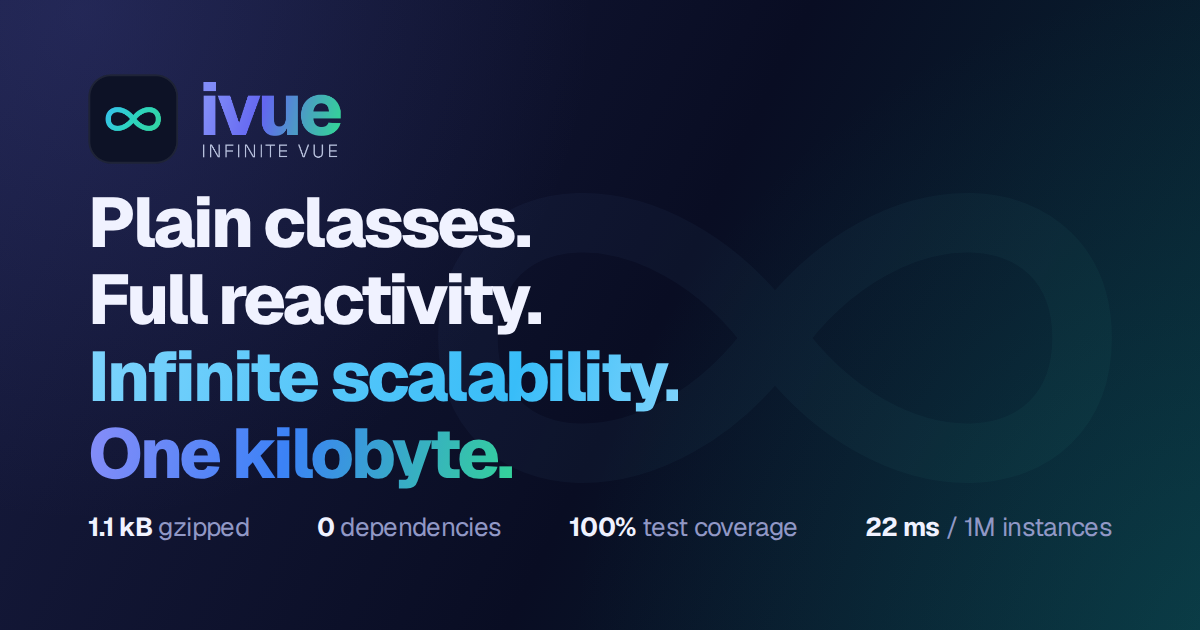
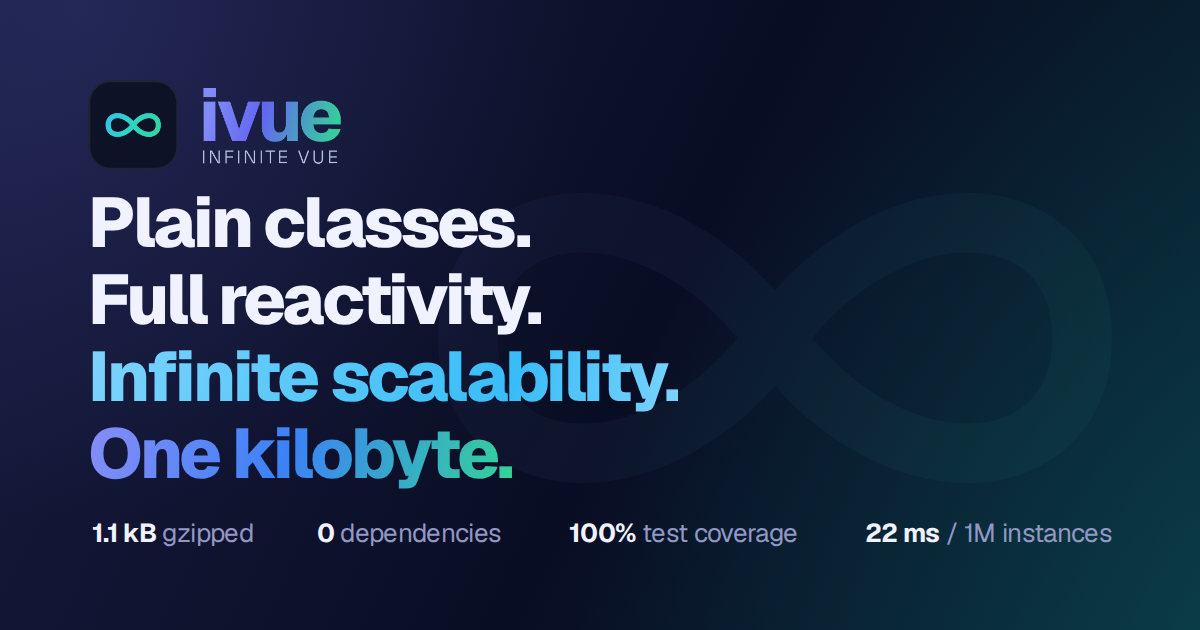
docs: improve examples onboarding and deployment warmup

diff --git a/docs_v2/scripts/og-image.html b/docs_v2/scripts/og-image.html
@@ -65,7 +65,7 @@
       .lockup {
         position: absolute;
         z-index: 1;
-        top: 68px;
+        top: 74px;
         /* Compensate for the PNG's transparent inset so its visible edge
            aligns with the headline's 88px guide. */
         left: 81.6px;
@@ -117,7 +117,7 @@
         position: absolute;
         z-index: 1;
         right: 88px;
-        bottom: 90px;
+        bottom: 84px;
         left: 88px;
         display: flex;
         align-items: baseline;
@@ -133,6 +133,10 @@
       .metrics strong {
         color: #f0f2ff;
         font-weight: 700;
+      }
+
+      .metric-size {
+        transform: translateX(4px);
       }
     </style>
   </head>
@@ -174,7 +178,7 @@
       </h1>
 
       <div class="metrics">
-        <span><strong>1.1 kB</strong> gzipped</span>
+        <span class="metric-size"><strong>1.1 kB</strong> gzipped</span>
         <span><strong>0</strong> dependencies</span>
         <span><strong>100%</strong> test coverage</span>
         <span><strong>22 ms</strong> / 1M instances</span>

diff --git a/docs_v2/.vitepress/config.ts b/docs_v2/.vitepress/config.ts
@@ -403,7 +403,7 @@ export default defineConfig({
     sidebar: {
       '/examples/': [
         {
-          text: 'Playground',
+          text: 'Examples',
           collapsed: false,
           items: [
             { text: 'Overview & Playground', link: '/examples/' },

diff --git a/docs_v2/examples/index.md b/docs_v2/examples/index.md
@@ -17,6 +17,22 @@ push redeploys everything.
 Or use the [embedded StackBlitz Playground](/examples/stackblitz) without
 leaving the docs.
 
+## Run the playground locally
+
+The same app is in the repository, with every example in one navigable
+workspace:
+
+```bash
+git clone https://github.com/infinite-system/ivue.git
+cd ivue
+yarn install
+yarn dev:playground
+```
+
+Open the Vite URL printed in the terminal (usually `http://localhost:5173`),
+then use the app's sidebar to switch between examples. Edit the classes or
+templates and Vite will update the running playground.
+
 ## Start small
 
 - **[Counter](/examples/counter)** — your first class: one ref, a
